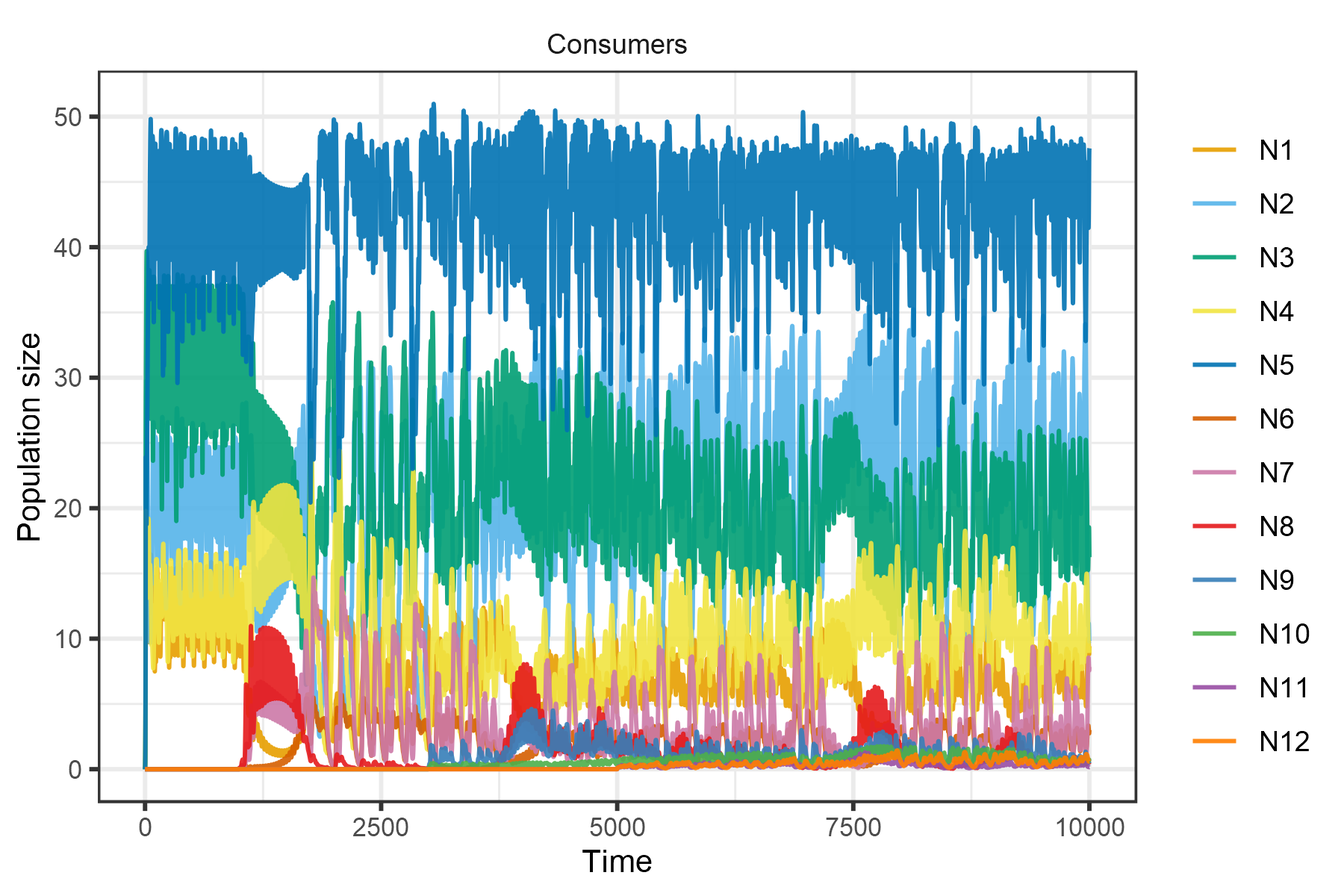
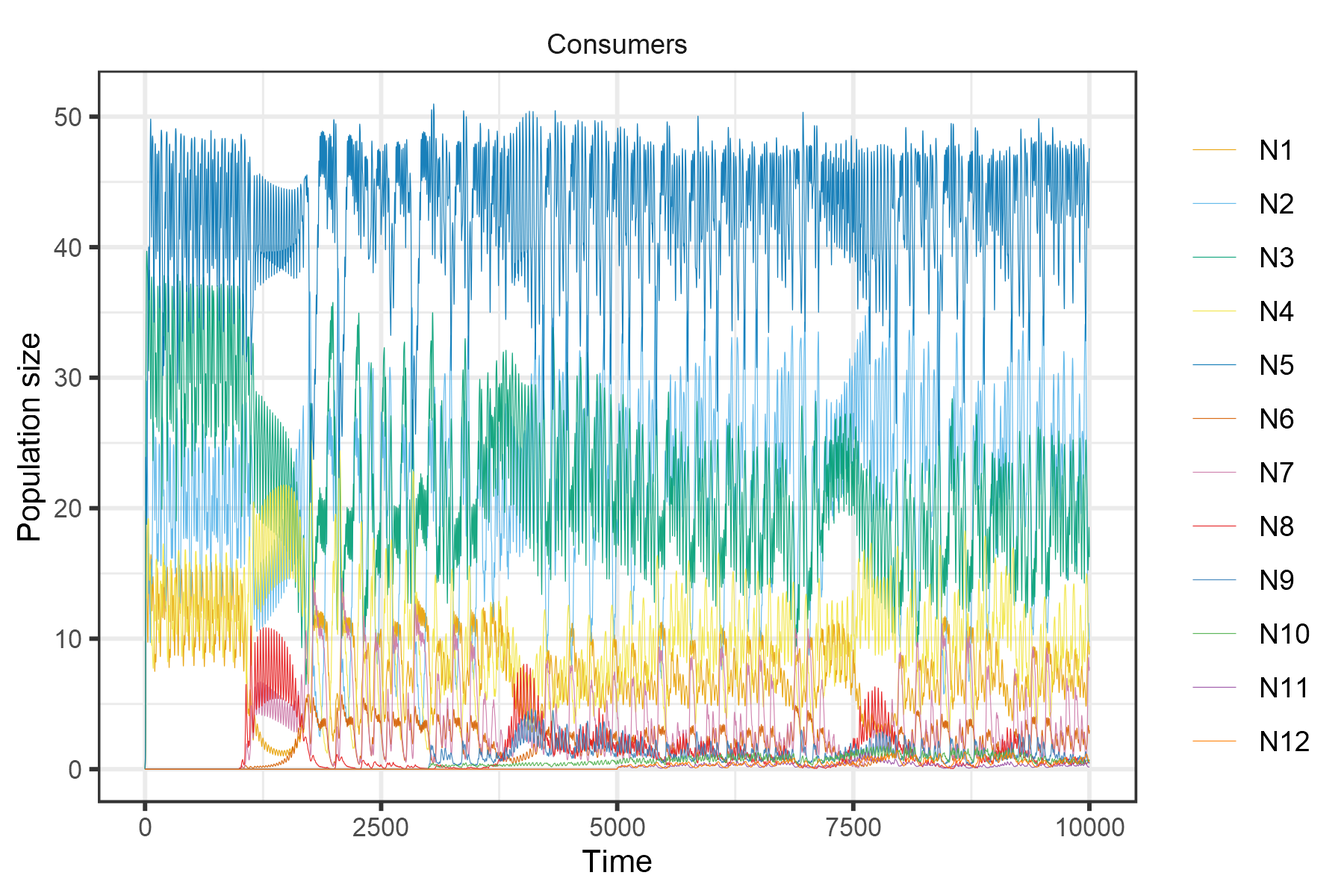
Built site for rescomp: 0.0.0.9000@c24e2f7

diff --git a/articles/classic-results.html b/articles/classic-results.html
@@ -92,7 +92,8 @@
 <h1 class="hasAnchor">
 <a href="#huisman-and-weissing-1999" class="anchor"></a>Huisman and Weissing (1999)</h1>
 <p><a href="https://www.nature.com/articles/46540">Biodiversity of plankton by species oscillations and chaos</a>. <em>Nature</em>, 402, 407–410</p>
-<p>Huisman and Weissing (1999) is notable for showing how the osciallations and chaotic dynamics generated by consumers species competing for a limited number of resources can foster the coexistence of many more species than there are limiting resources. As a refutation of the competitive exclusion principal, this results provides one solution to the so-called ‘paradox of the plankton’.</p>
+<p>Huisman and Weissing (1999) is notable for showing how oscillations and chaotic dynamics generated by consumers competing for a limited number of resources can foster the coexistence of many more species than there are limiting resources. As a refutation of the competitive exclusion principal, this result provides one solution to the so-called ‘paradox of the plankton’.</p>
+<p>The following call to <code>spec_rescomp</code> specifies a model for 6 species consuming 3 essential resources supplied continuously. The dynamics of the first three species generates a limit cycle. The remaining three species introduced later (using the <code>introseq</code> argument) are able to persist on the resource fluctuations generated by the first three species.</p>
 <div class="sourceCode" id="cb2"><pre class="downlit sourceCode r">
 <code class="sourceCode R"><span class="va">pars</span> <span class="op">&lt;-</span> <span class="fu"><a href="../reference/spec_rescomp.html">spec_rescomp</a></span><span class="op">(</span>
   spnum <span class="op">=</span> <span class="fl">6</span>,
@@ -147,12 +148,63 @@
 <div class="sourceCode" id="cb3"><pre class="downlit sourceCode r">
 <code class="sourceCode R"><span class="fu"><a href="../reference/plot_funcresp.html">plot_funcresp</a></span><span class="op">(</span><span class="va">pars</span><span class="op">)</span></code></pre></div>
 <p><img src="classic-results-HW1999-funcresps-1c-1.png" title="plot of chunk HW1999-funcresps-1c" alt="plot of chunk HW1999-funcresps-1c" width="70%"></p>
+<p>Be warned the full simulation with 15000 time steps may take a while to run (~5 mins to run on a laptop with CPU 1.90GHz and 16GB of RAM).</p>
 <div class="sourceCode" id="cb4"><pre class="downlit sourceCode r">
 <code class="sourceCode R"><span class="va">m1</span> <span class="op">&lt;-</span> <span class="fu"><a href="../reference/sim_rescomp.html">sim_rescomp</a></span><span class="op">(</span><span class="va">pars</span><span class="op">)</span></code></pre></div>
 <div class="sourceCode" id="cb5"><pre class="downlit sourceCode r">
 <code class="sourceCode R"><span class="fu"><a href="../reference/plot_rescomp.html">plot_rescomp</a></span><span class="op">(</span><span class="va">m1</span>, resources <span class="op">=</span> <span class="cn">FALSE</span><span class="op">)</span></code></pre></div>
 <p><img src="classic-results-HW1999-dynamics-1c-1.png" title="Reproduces Fig 1c from Huisman and Weissing (1999)." alt="Reproduces Fig 1c from Huisman and Weissing (1999)." width="70%"></p>
+<p>Huisman and Weissing (1999) next showed that chaotic dynamics are common when each consumer is an intermediate competitor for the resource that most limits its growth.</p>
 <div class="sourceCode" id="cb6"><pre class="downlit sourceCode r">
+<code class="sourceCode R"><span class="va">pars</span> <span class="op">&lt;-</span> <span class="fu"><a href="../reference/spec_rescomp.html">spec_rescomp</a></span><span class="op">(</span>
+  spnum <span class="op">=</span> <span class="fl">5</span>,
+  resnum <span class="op">=</span> <span class="fl">5</span>,
+  funcresp <span class="op">=</span> <span class="st">"type2"</span>,
+  mumatrix <span class="op">=</span> <span class="fu"><a href="https://rdrr.io/r/base/matrix.html">matrix</a></span><span class="op">(</span><span class="fu"><a href="https://rdrr.io/r/base/c.html">c</a></span><span class="op">(</span><span class="fl">1</span>, <span class="fl">1</span>, <span class="fl">1</span>, <span class="fl">1</span>, <span class="fl">1</span>,
+                      <span class="fl">1</span>, <span class="fl">1</span>, <span class="fl">1</span>, <span class="fl">1</span>, <span class="fl">1</span>,
+                      <span class="fl">1</span>, <span class="fl">1</span>, <span class="fl">1</span>, <span class="fl">1</span>, <span class="fl">1</span>,
+                      <span class="fl">1</span>, <span class="fl">1</span>, <span class="fl">1</span>, <span class="fl">1</span>, <span class="fl">1</span>,
+                      <span class="fl">1</span>, <span class="fl">1</span>, <span class="fl">1</span>, <span class="fl">1</span>, <span class="fl">1</span><span class="op">)</span>,
+                    nrow <span class="op">=</span> <span class="fl">5</span>, ncol <span class="op">=</span> <span class="fl">5</span>, byrow <span class="op">=</span> <span class="cn">TRUE</span><span class="op">)</span>,
+  kmatrix <span class="op">=</span> <span class="fu"><a href="https://rdrr.io/r/base/matrix.html">matrix</a></span><span class="op">(</span><span class="fu"><a href="https://rdrr.io/r/base/c.html">c</a></span><span class="op">(</span><span class="fl">0.39</span>, <span class="fl">0.22</span>, <span class="fl">0.27</span>, <span class="fl">0.30</span>, <span class="fl">0.34</span>,
+                     <span class="fl">0.34</span>, <span class="fl">0.39</span>, <span class="fl">0.22</span>, <span class="fl">0.24</span>, <span class="fl">0.30</span>,
+                     <span class="fl">0.30</span>, <span class="fl">0.34</span>, <span class="fl">0.39</span>, <span class="fl">0.22</span>, <span class="fl">0.22</span>,
+                     <span class="fl">0.24</span>, <span class="fl">0.30</span>, <span class="fl">0.34</span>, <span class="fl">0.39</span>, <span class="fl">0.20</span>,
+                     <span class="fl">0.23</span>, <span class="fl">0.27</span>, <span class="fl">0.30</span>, <span class="fl">0.34</span>, <span class="fl">0.39</span><span class="op">)</span>,
+                   nrow <span class="op">=</span> <span class="fl">5</span>, ncol <span class="op">=</span> <span class="fl">5</span>, byrow <span class="op">=</span> <span class="cn">TRUE</span><span class="op">)</span>,
+  qmatrix <span class="op">=</span> <span class="fu"><a href="https://rdrr.io/r/base/matrix.html">matrix</a></span><span class="op">(</span><span class="fu"><a href="https://rdrr.io/r/base/c.html">c</a></span><span class="op">(</span><span class="fl">0.04</span>, <span class="fl">0.08</span>, <span class="fl">0.10</span>, <span class="fl">0.05</span>, <span class="fl">0.07</span>,
+                     <span class="fl">0.04</span>, <span class="fl">0.08</span>, <span class="fl">0.10</span>, <span class="fl">0.03</span>, <span class="fl">0.09</span>,
+                     <span class="fl">0.07</span>, <span class="fl">0.08</span>, <span class="fl">0.10</span>, <span class="fl">0.03</span>, <span class="fl">0.07</span>,
+                     <span class="fl">0.04</span>, <span class="fl">0.10</span>, <span class="fl">0.10</span>, <span class="fl">0.03</span>, <span class="fl">0.07</span>,
+                     <span class="fl">0.04</span>, <span class="fl">0.08</span>, <span class="fl">0.14</span>, <span class="fl">0.03</span>, <span class="fl">0.07</span><span class="op">)</span>,
+       nrow <span class="op">=</span> <span class="fl">5</span>, ncol <span class="op">=</span> <span class="fl">5</span>, byrow <span class="op">=</span> <span class="cn">TRUE</span><span class="op">)</span>,
+  resspeed <span class="op">=</span> <span class="fl">0.25</span>,
+  resconc <span class="op">=</span> <span class="fu"><a href="https://rdrr.io/r/base/c.html">c</a></span><span class="op">(</span><span class="fl">6</span>, <span class="fl">10</span>, <span class="fl">14</span>, <span class="fl">4</span>, <span class="fl">9</span><span class="op">)</span>,
+  mort <span class="op">=</span> <span class="fl">0.25</span>,
+  cinit <span class="op">=</span> <span class="fu"><a href="https://rdrr.io/r/base/c.html">c</a></span><span class="op">(</span><span class="fl">0.1</span> <span class="op">+</span> <span class="fl">1</span><span class="op">/</span><span class="fl">100</span>, <span class="fl">0.1</span> <span class="op">+</span> <span class="fl">2</span><span class="op">/</span><span class="fl">100</span>, <span class="fl">0.1</span> <span class="op">+</span> <span class="fl">3</span><span class="op">/</span><span class="fl">100</span>, <span class="fl">0.1</span> <span class="op">+</span> <span class="fl">4</span><span class="op">/</span><span class="fl">100</span>, <span class="fl">0.1</span> <span class="op">+</span> <span class="fl">5</span><span class="op">/</span><span class="fl">100</span><span class="op">)</span>,
+  essential <span class="op">=</span> <span class="cn">TRUE</span>,
+  totaltime <span class="op">=</span> <span class="fl">300</span>
+<span class="op">)</span>
+<span class="co">#&gt; Model properties </span>
+<span class="co">#&gt;  * 5 consumer(s) and 5 resource(s)</span>
+<span class="co">#&gt;  * Consumers have type 2 functional responses</span>
+<span class="co">#&gt;  * Resources are essential</span>
+<span class="co">#&gt;  * Resource supply is continuous (e.g. chemostat)</span>
+<span class="co">#&gt;  * Mortality is continuous</span>
+<span class="co">#&gt; </span>
+<span class="co">#&gt; Simulation properties </span>
+<span class="co">#&gt;  * Simulation time: 300 time steps</span>
+<span class="co">#&gt;  * Init state: consumer(s) = [0.11, 0.12, 0.13, 0.14, 0.15], resource(s) = [6, 10, 14, 4, 9]</span></code></pre></div>
+<div class="sourceCode" id="cb7"><pre class="downlit sourceCode r">
+<code class="sourceCode R"><span class="fu"><a href="../reference/plot_funcresp.html">plot_funcresp</a></span><span class="op">(</span><span class="va">pars</span><span class="op">)</span></code></pre></div>
+<p><img src="classic-results-HW1999-funcresp-2-1.png" title="plot of chunk HW1999-funcresp-2" alt="plot of chunk HW1999-funcresp-2" width="70%"></p>
+<div class="sourceCode" id="cb8"><pre class="downlit sourceCode r">
+<code class="sourceCode R"><span class="va">m1</span> <span class="op">&lt;-</span> <span class="fu"><a href="../reference/sim_rescomp.html">sim_rescomp</a></span><span class="op">(</span><span class="va">pars</span><span class="op">)</span></code></pre></div>
+<div class="sourceCode" id="cb9"><pre class="downlit sourceCode r">
+<code class="sourceCode R"><span class="fu"><a href="../reference/plot_rescomp.html">plot_rescomp</a></span><span class="op">(</span><span class="va">m1</span>, resources <span class="op">=</span> <span class="cn">FALSE</span>, lwd <span class="op">=</span> <span class="fl">1</span><span class="op">)</span></code></pre></div>
+<p><img src="classic-results-HW1999-dynamics-2a-1.png" title="Corresponds to Fig 2a of Huisman and Weissing (1999)." alt="Corresponds to Fig 2a of Huisman and Weissing (1999)." width="70%"></p>
+<p>These chaotic oscillations can in fact foster the coexistence of many more species than limiting resources. In the final example taken from Fig 4 of Husiman and Weissing, 12 species coexist on 5 resource.</p>
+<div class="sourceCode" id="cb10"><pre class="downlit sourceCode r">
 <code class="sourceCode R"><span class="va">pars</span> <span class="op">&lt;-</span> <span class="fu"><a href="../reference/spec_rescomp.html">spec_rescomp</a></span><span class="op">(</span>
   spnum <span class="op">=</span> <span class="fl">12</span>,
   resnum <span class="op">=</span> <span class="fl">5</span>,
@@ -219,20 +271,21 @@
 <span class="co">#&gt;  * Simulation time: 10000 time steps</span>
 <span class="co">#&gt;  * Init state: consumer(s) = [0.11, 0.12, 0.13, 0.14, 0.15, 0.1, 0.1, 0.1, 0.1, 0.1, 0.1, 0.1], resource(s) = [6, 10, 14, 4, 9]</span>
 <span class="co">#&gt;  * Some or all consumers introduced after timepoint 0</span></code></pre></div>
-<div class="sourceCode" id="cb7"><pre class="downlit sourceCode r">
+<div class="sourceCode" id="cb11"><pre class="downlit sourceCode r">
 <code class="sourceCode R"><span class="fu"><a href="../reference/plot_funcresp.html">plot_funcresp</a></span><span class="op">(</span><span class="va">pars</span><span class="op">)</span></code></pre></div>
 <p><img src="classic-results-HW1999-funcresp-4-1.png" title="plot of chunk HW1999-funcresp-4" alt="plot of chunk HW1999-funcresp-4" width="70%"></p>
-<div class="sourceCode" id="cb8"><pre class="downlit sourceCode r">
+<p>Be warned this simulation may take a relatively long time to run (~10 mins on a laptop with CPU 1.90GHz and 16GB of RAM).</p>
+<div class="sourceCode" id="cb12"><pre class="downlit sourceCode r">
 <code class="sourceCode R"><span class="va">m1</span> <span class="op">&lt;-</span> <span class="fu"><a href="../reference/sim_rescomp.html">sim_rescomp</a></span><span class="op">(</span><span class="va">pars</span><span class="op">)</span></code></pre></div>
-<div class="sourceCode" id="cb9"><pre class="downlit sourceCode r">
-<code class="sourceCode R"><span class="fu"><a href="../reference/plot_rescomp.html">plot_rescomp</a></span><span class="op">(</span><span class="va">m1</span>, resources <span class="op">=</span> <span class="cn">FALSE</span>, lwd <span class="op">=</span> <span class="fl">0.5</span><span class="op">)</span></code></pre></div>
+<div class="sourceCode" id="cb13"><pre class="downlit sourceCode r">
+<code class="sourceCode R"><span class="fu"><a href="../reference/plot_rescomp.html">plot_rescomp</a></span><span class="op">(</span><span class="va">m1</span>, resources <span class="op">=</span> <span class="cn">FALSE</span>, lwd <span class="op">=</span> <span class="fl">0.1</span><span class="op">)</span></code></pre></div>
 <p><img src="classic-results-HW1999-dynamics-4-1.png" title="Composite of Figs 4a and 4b from Huisman and Weissing (1999)." alt="Composite of Figs 4a and 4b from Huisman and Weissing (1999)." width="70%"></p>
 </div>
 <div id="grover-1990" class="section level1">
 <h1 class="hasAnchor">
 <a href="#grover-1990" class="anchor"></a>Grover (1990)</h1>
 <p><a href="https://www.journals.uchicago.edu/doi/abs/10.1086/285131">Resource Competition in a Variable Environment: Phytoplankton Growing According to Monod’s Model</a>. <em>The American Naturalist</em>, 136(6), 771-789.</p>
-<div class="sourceCode" id="cb10"><pre class="downlit sourceCode r">
+<div class="sourceCode" id="cb14"><pre class="downlit sourceCode r">
 <code class="sourceCode R"><span class="va">pars</span> <span class="op">&lt;-</span> <span class="fu"><a href="../reference/spec_rescomp.html">spec_rescomp</a></span><span class="op">(</span>
   spnum <span class="op">=</span> <span class="fl">2</span>,
   resnum <span class="op">=</span> <span class="fl">1</span>,
@@ -267,15 +320,15 @@
 <span class="co">#&gt; Simulation properties </span>
 <span class="co">#&gt;  * Simulation time: 100 time steps</span>
 <span class="co">#&gt;  * Init state: consumer(s) = [1000, 1000], resource(s) = [2e-04]</span></code></pre></div>
-<div class="sourceCode" id="cb11"><pre class="downlit sourceCode r">
+<div class="sourceCode" id="cb15"><pre class="downlit sourceCode r">
 <code class="sourceCode R"><span class="fu"><a href="../reference/plot_funcresp.html">plot_funcresp</a></span><span class="op">(</span><span class="va">pars</span>, maxx <span class="op">=</span> <span class="fl">0.0001</span><span class="op">)</span></code></pre></div>
 <p><img src="classic-results-Grover1990-funcresp-4a-1.png" title="Reproduces Fig 1 from Grover (1990). Resource concentration in $mu$mol per ml rather than  per L." alt="Reproduces Fig 1 from Grover (1990). Resource concentration in $mu$mol per ml rather than  per L." width="70%"></p>
-<div class="sourceCode" id="cb12"><pre class="downlit sourceCode r">
+<div class="sourceCode" id="cb16"><pre class="downlit sourceCode r">
 <code class="sourceCode R"><span class="va">mcons</span> <span class="op">&lt;-</span> <span class="fu"><a href="../reference/sim_rescomp.html">sim_rescomp</a></span><span class="op">(</span><span class="va">pars</span><span class="op">)</span></code></pre></div>
-<div class="sourceCode" id="cb13"><pre class="downlit sourceCode r">
+<div class="sourceCode" id="cb17"><pre class="downlit sourceCode r">
 <code class="sourceCode R"><span class="fu"><a href="../reference/plot_rescomp.html">plot_rescomp</a></span><span class="op">(</span><span class="va">mcons</span>, resources <span class="op">=</span> <span class="cn">FALSE</span>, logy <span class="op">=</span> <span class="cn">TRUE</span><span class="op">)</span></code></pre></div>
 <p><img src="classic-results-Grover1990-dynamics-4a-1.png" title="Reproduces Fig 4A from Grover (1990)." alt="Reproduces Fig 4A from Grover (1990)." width="70%"></p>
-<div class="sourceCode" id="cb14"><pre class="downlit sourceCode r">
+<div class="sourceCode" id="cb18"><pre class="downlit sourceCode r">
 <code class="sourceCode R"><span class="va">period</span> <span class="op">&lt;-</span> <span class="fl">1</span>
 <span class="va">amp</span> <span class="op">&lt;-</span> <span class="op">(</span><span class="op">(</span><span class="fl">0.0002</span><span class="op">*</span><span class="fl">0.25</span><span class="op">*</span><span class="va">period</span><span class="op">)</span><span class="op">/</span><span class="op">(</span><span class="fl">1</span> <span class="op">-</span> <span class="fu"><a href="https://rdrr.io/r/base/Log.html">exp</a></span><span class="op">(</span><span class="op">-</span><span class="fl">0.25</span><span class="op">*</span><span class="va">period</span><span class="op">)</span><span class="op">)</span> <span class="op">-</span> <span class="fl">0.0002</span><span class="op">)</span><span class="op">*</span><span class="fl">2</span>
 <span class="va">pars</span><span class="op">$</span><span class="va">respulse</span> <span class="op">&lt;-</span> <span class="va">amp</span>
@@ -293,11 +346,11 @@
 <span class="co">#&gt;  * Simulation time: 100 time steps</span>
 <span class="co">#&gt;  * Resources pulsing every 1 timesteps</span>
 <span class="co">#&gt;  * Init state: consumer(s) = [1000, 1000], resource(s) = [5.20811664187798e-05]</span></code></pre></div>
-<div class="sourceCode" id="cb15"><pre class="downlit sourceCode r">
+<div class="sourceCode" id="cb19"><pre class="downlit sourceCode r">
 <code class="sourceCode R"><span class="va">m1</span> <span class="op">&lt;-</span> <span class="fu"><a href="../reference/sim_rescomp.html">sim_rescomp</a></span><span class="op">(</span><span class="va">pars</span><span class="op">)</span>
 <span class="fu"><a href="../reference/plot_rescomp.html">plot_rescomp</a></span><span class="op">(</span><span class="va">m1</span>, resource <span class="op">=</span> <span class="cn">FALSE</span>, logy <span class="op">=</span> <span class="cn">TRUE</span><span class="op">)</span></code></pre></div>
 <p><img src="classic-results-Grover1990-dynamics-4b-1.png" title="Reproduces Fig 4B from Grover (1990)." alt="Reproduces Fig 4B from Grover (1990)." width="70%"></p>
-<div class="sourceCode" id="cb16"><pre class="downlit sourceCode r">
+<div class="sourceCode" id="cb20"><pre class="downlit sourceCode r">
 <code class="sourceCode R"><span class="va">period</span> <span class="op">&lt;-</span> <span class="fl">4</span>
 <span class="va">amp</span> <span class="op">&lt;-</span> <span class="op">(</span><span class="op">(</span><span class="fl">0.0002</span><span class="op">*</span><span class="fl">0.25</span><span class="op">*</span><span class="va">period</span><span class="op">)</span><span class="op">/</span><span class="op">(</span><span class="fl">1</span> <span class="op">-</span> <span class="fu"><a href="https://rdrr.io/r/base/Log.html">exp</a></span><span class="op">(</span><span class="op">-</span><span class="fl">0.25</span><span class="op">*</span><span class="va">period</span><span class="op">)</span><span class="op">)</span> <span class="op">-</span> <span class="fl">0.0002</span><span class="op">)</span><span class="op">*</span><span class="fl">2</span>
 <span class="va">pars</span><span class="op">$</span><span class="va">respulse</span> <span class="op">&lt;-</span> <span class="va">amp</span>
@@ -314,11 +367,11 @@
 <span class="co">#&gt;  * Simulation time: 100 time steps</span>
 <span class="co">#&gt;  * Resources pulsing every 4 timesteps</span>
 <span class="co">#&gt;  * Init state: consumer(s) = [1000, 1000], resource(s) = [0.000232790682747731]</span></code></pre></div>
-<div class="sourceCode" id="cb17"><pre class="downlit sourceCode r">
+<div class="sourceCode" id="cb21"><pre class="downlit sourceCode r">
 <code class="sourceCode R"><span class="va">m4</span> <span class="op">&lt;-</span> <span class="fu"><a href="../reference/sim_rescomp.html">sim_rescomp</a></span><span class="op">(</span><span class="va">pars</span><span class="op">)</span>
 <span class="fu"><a href="../reference/plot_rescomp.html">plot_rescomp</a></span><span class="op">(</span><span class="va">m4</span>, resource <span class="op">=</span> <span class="cn">FALSE</span>, logy <span class="op">=</span> <span class="cn">TRUE</span><span class="op">)</span></code></pre></div>
 <p><img src="classic-results-Grover1990-dynamics-4c-1.png" title="Reproduces Fig 4C from Grover (1990)." alt="Reproduces Fig 4C from Grover (1990)." width="70%"></p>
-<div class="sourceCode" id="cb18"><pre class="downlit sourceCode r">
+<div class="sourceCode" id="cb22"><pre class="downlit sourceCode r">
 <code class="sourceCode R"><span class="va">period</span> <span class="op">&lt;-</span> <span class="fl">10</span>
 <span class="va">amp</span> <span class="op">&lt;-</span> <span class="op">(</span><span class="op">(</span><span class="fl">0.0002</span><span class="op">*</span><span class="fl">0.25</span><span class="op">*</span><span class="va">period</span><span class="op">)</span><span class="op">/</span><span class="op">(</span><span class="fl">1</span> <span class="op">-</span> <span class="fu"><a href="https://rdrr.io/r/base/Log.html">exp</a></span><span class="op">(</span><span class="op">-</span><span class="fl">0.25</span><span class="op">*</span><span class="va">period</span><span class="op">)</span><span class="op">)</span> <span class="op">-</span> <span class="fl">0.0002</span><span class="op">)</span><span class="op">*</span><span class="fl">2</span>
 <span class="va">pars</span><span class="op">$</span><span class="va">respulse</span> <span class="op">&lt;-</span> <span class="va">amp</span>
@@ -335,7 +388,7 @@
 <span class="co">#&gt;  * Simulation time: 100 time steps</span>
 <span class="co">#&gt;  * Resources pulsing every 10 timesteps</span>
 <span class="co">#&gt;  * Init state: consumer(s) = [1000, 1000], resource(s) = [0.000689425489833852]</span></code></pre></div>
-<div class="sourceCode" id="cb19"><pre class="downlit sourceCode r">
+<div class="sourceCode" id="cb23"><pre class="downlit sourceCode r">
 <code class="sourceCode R"><span class="va">m10</span> <span class="op">&lt;-</span> <span class="fu"><a href="../reference/sim_rescomp.html">sim_rescomp</a></span><span class="op">(</span><span class="va">pars</span><span class="op">)</span>
 <span class="fu"><a href="../reference/plot_rescomp.html">plot_rescomp</a></span><span class="op">(</span><span class="va">m10</span>, resource <span class="op">=</span> <span class="cn">FALSE</span>, logy <span class="op">=</span> <span class="cn">TRUE</span><span class="op">)</span></code></pre></div>
 <p><img src="classic-results-Grover1990-dynamics-4d-1.png" title="Reproduces Fig 4D from Grover (1990)." alt="Reproduces Fig 4D from Grover (1990)." width="70%"></p>
@@ -344,7 +397,7 @@
 <h1 class="hasAnchor">
 <a href="#armstrong-and-mcgehee-1980" class="anchor"></a>Armstrong and McGehee (1980)</h1>
 <p><a href="https://www.journals.uchicago.edu/doi/10.1086/283553">Competitive Exclusion</a>. <em>The American Naturalist</em>, 115(2), 151-170.</p>
-<div class="sourceCode" id="cb20"><pre class="downlit sourceCode r">
+<div class="sourceCode" id="cb24"><pre class="downlit sourceCode r">
 <code class="sourceCode R"><span class="va">pars</span> <span class="op">&lt;-</span> <span class="fu"><a href="../reference/spec_rescomp.html">spec_rescomp</a></span><span class="op">(</span>
   spnum <span class="op">=</span> <span class="fl">2</span>,
   resnum <span class="op">=</span> <span class="fl">1</span>,
@@ -380,14 +433,14 @@
 <span class="co">#&gt;  * Simulation time: 600 time steps</span>
 <span class="co">#&gt;  * Init state: consumer(s) = [1, 0.01], resource(s) = [100]</span>
 <span class="co">#&gt;  * Some or all consumers introduced after timepoint 0</span></code></pre></div>
-<div class="sourceCode" id="cb21"><pre class="downlit sourceCode r">
+<div class="sourceCode" id="cb25"><pre class="downlit sourceCode r">
 <code class="sourceCode R">
 <span class="co"># Using madj = TRUE standardizes the functional response by mortality.</span>
 <span class="fu"><a href="../reference/plot_funcresp.html">plot_funcresp</a></span><span class="op">(</span><span class="va">pars</span>, maxx <span class="op">=</span> <span class="fl">200</span>, madj <span class="op">=</span> <span class="cn">TRUE</span><span class="op">)</span></code></pre></div>
 <p><img src="classic-results-AM1980-funcresp-2-1.png" title="Corresponds to Fig 2 from Armstrong and McGehee (1980)." alt="Corresponds to Fig 2 from Armstrong and McGehee (1980)." width="70%"></p>
-<div class="sourceCode" id="cb22"><pre class="downlit sourceCode r">
+<div class="sourceCode" id="cb26"><pre class="downlit sourceCode r">
 <code class="sourceCode R"><span class="va">m1</span> <span class="op">&lt;-</span> <span class="fu"><a href="../reference/sim_rescomp.html">sim_rescomp</a></span><span class="op">(</span><span class="va">pars</span><span class="op">)</span></code></pre></div>
-<div class="sourceCode" id="cb23"><pre class="downlit sourceCode r">
+<div class="sourceCode" id="cb27"><pre class="downlit sourceCode r">
 <code class="sourceCode R"><span class="fu"><a href="../reference/plot_rescomp.html">plot_rescomp</a></span><span class="op">(</span><span class="va">m1</span><span class="op">)</span></code></pre></div>
 <p><img src="classic-results-AM1980-dynamics-1-1.png" title="Corresponds to Fig 1 from Armstrong and McGehee (1980). The paper states that the model was initated with R = 400, but here it is started with R = 100 to provide a closer correspondence to the original figure." alt="Corresponds to Fig 1 from Armstrong and McGehee (1980). The paper states that the model was initated with R = 400, but here it is started with R = 100 to provide a closer correspondence to the original figure." width="70%"></p>
 <!-- # Hastings et al,. 2018. Transient phenomena in ecology. Science, 361(6406). -->
